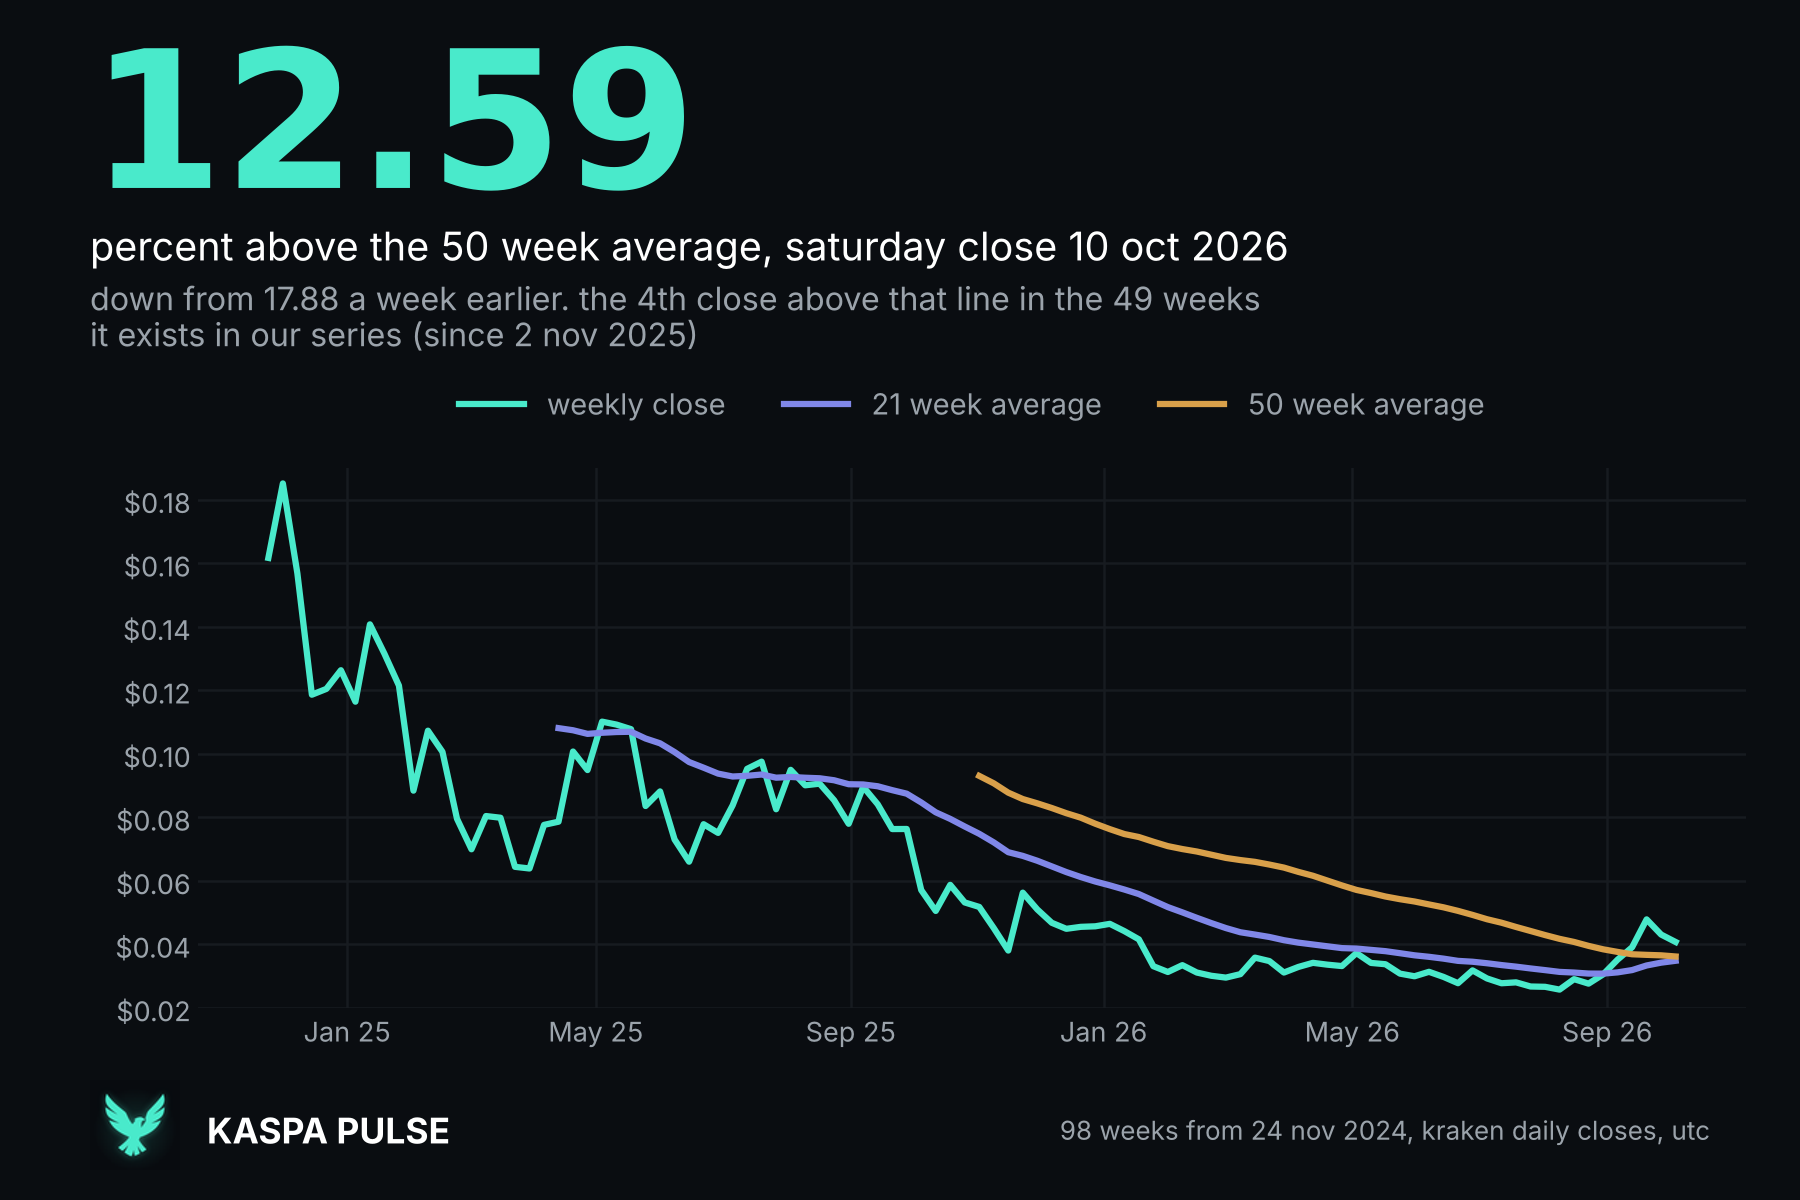
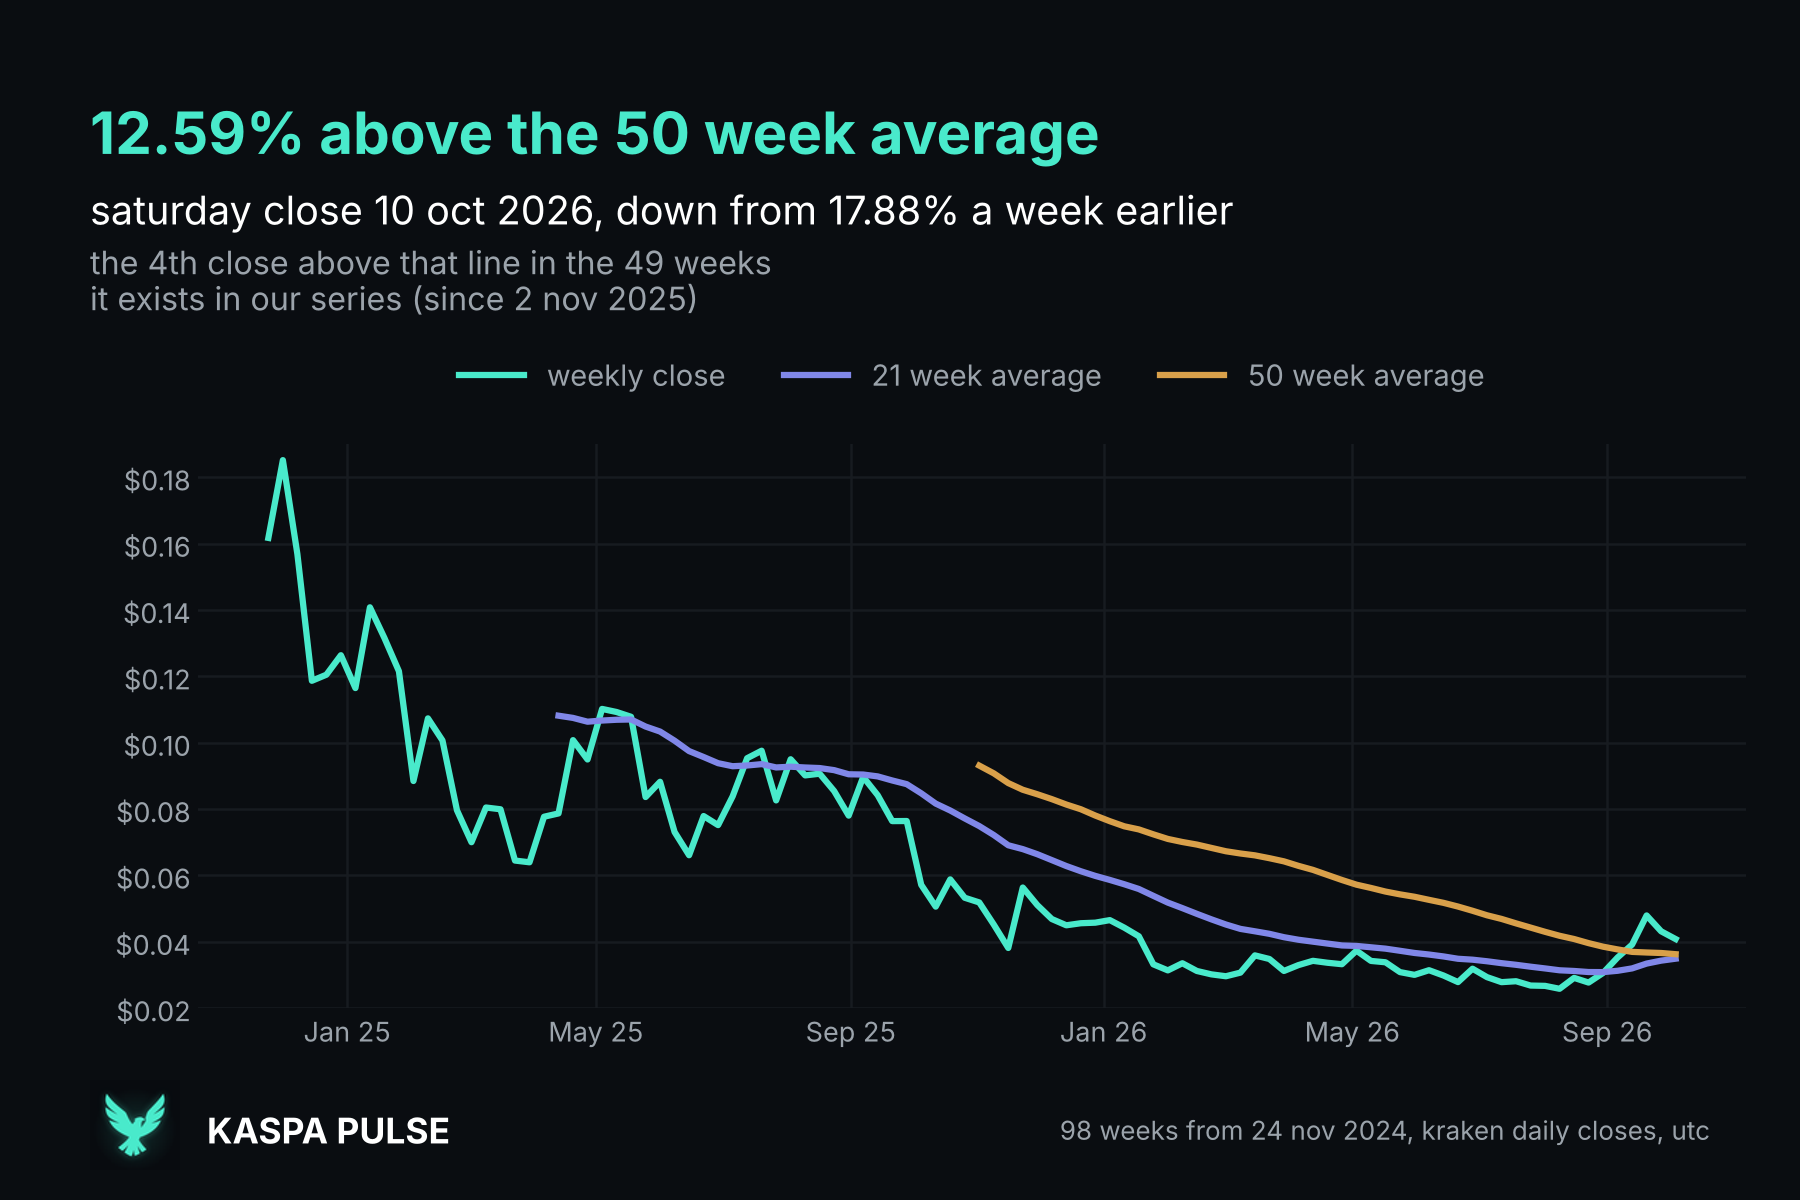
newsletter 14: kanal-buttons, tonregel, prozentzeichen, grafik ohne zweite grosszahl
Claude-Session: https://claude.ai/code/session_01TFFbjeErefK2o8AqjudW4C

diff --git a/newsletter/2026-10-12.html b/newsletter/2026-10-12.html
@@ -20,6 +20,11 @@
   Unterlagen. Ben liefert ihn nach, dann Knopf "watch this week's episode"
   eintragen und neue Testmail.
 
+  Aenderungen 12.10. (Ben): Kanal-Buttons mit Kurzlinks (PR 84, bei Versand muss er auf main
+  sein), Tonregel (keine Saetze ueber das, was wir nicht tun), "%" statt "percent",
+  keine zweite Grosszahl in der Grafik. Wallet Alerts: "checked several times a day",
+  nicht "every minute" (Alarme laufen alle 10 bis 15 Minuten, "every minute" waere falsch).
+
   Ausgabennummer: scripts/newsletter_issue.py (letzte Ausgabe 13 plus eins).
   Wochengrafik: graphics/weekly-2026-10-12.png, 600x3 (1800x1200).
   UTM: utm_source=newsletter, utm_medium=mail, utm_campaign=weekly7.
@@ -31,7 +36,8 @@
 <head>
 <meta charset="utf-8">
 <meta name="viewport" content="width=device-width, initial-scale=1">
-<meta name="x-subject" content="12.59 percent above the 50 week line">
+<meta name="x-subject" content="12.59% above the 50 week line">
+<style>@media only screen and (max-width:480px){.kb{width:50% !important;}}</style>
 <title>Kaspa Pulse Weekly, issue 14</title>
 </head>
 <body style="margin:0; padding:0; background:#050608;">
@@ -50,8 +56,8 @@
   </td></tr>
 
   <tr><td style="padding:30px 28px 6px 28px; text-align:center;">
-    <div style="font-size:64px; line-height:64px; color:#49EACB; font-weight:700;">12.59</div>
-    <div style="font-size:13px; letter-spacing:1px; color:#9BA3AB; text-transform:uppercase; padding-top:10px;">percent above kaspa's 50 week average on saturday 10 october, the 4th close above it in the 49 weeks the line has existed in our series (since 2 november 2025)</div>
+    <div style="font-size:64px; line-height:64px; color:#49EACB; font-weight:700;">12.59%</div>
+    <div style="font-size:13px; letter-spacing:1px; color:#9BA3AB; text-transform:uppercase; padding-top:10px;">above kaspa's 50 week average on saturday 10 october, the 4th close above it in the 49 weeks the line has existed in our series (since 2 november 2025)</div>
   </td></tr>
 
   <tr><td style="padding:18px 28px 4px 28px;">
@@ -67,7 +73,7 @@
       </tr>
       <tr>
         <td style="padding:9px 0; border-bottom:1px solid #1A1D21; color:#9BA3AB;">week against saturday 3 oct</td>
-        <td style="padding:9px 0; border-bottom:1px solid #1A1D21; text-align:right; color:#49EACB;">down 5.43 percent, 14.86 percent below saturday 26 sep</td>
+        <td style="padding:9px 0; border-bottom:1px solid #1A1D21; text-align:right; color:#49EACB;">down 5.43%, 14.86% below saturday 26 sep</td>
       </tr>
       <tr>
         <td style="padding:9px 0; border-bottom:1px solid #1A1D21; color:#9BA3AB;">50 week average, 10 oct</td>
@@ -75,7 +81,7 @@
       </tr>
       <tr>
         <td style="padding:9px 0; border-bottom:1px solid #1A1D21; color:#9BA3AB;">close against the 50 week line</td>
-        <td style="padding:9px 0; border-bottom:1px solid #1A1D21; text-align:right; color:#49EACB;">12.59 percent above, down from 17.88 percent a week earlier</td>
+        <td style="padding:9px 0; border-bottom:1px solid #1A1D21; text-align:right; color:#49EACB;">12.59% above, down from 17.88% a week earlier</td>
       </tr>
       <tr>
         <td style="padding:9px 0; border-bottom:1px solid #1A1D21; color:#9BA3AB;">21 week average, 10 oct</td>
@@ -83,11 +89,11 @@
       </tr>
       <tr>
         <td style="padding:9px 0; border-bottom:1px solid #1A1D21; color:#9BA3AB;">close against the 21 week line</td>
-        <td style="padding:9px 0; border-bottom:1px solid #1A1D21; text-align:right; color:#49EACB;">16.97 percent above, down from 25.81 percent a week earlier</td>
+        <td style="padding:9px 0; border-bottom:1px solid #1A1D21; text-align:right; color:#49EACB;">16.97% above, down from 25.81% a week earlier</td>
       </tr>
       <tr>
         <td style="padding:9px 0; border-bottom:1px solid #1A1D21; color:#9BA3AB;">weekly volume, 4 oct to 10 oct</td>
-        <td style="padding:9px 0; border-bottom:1px solid #1A1D21; text-align:right;">6.80M units, 33.18 percent below the week before</td>
+        <td style="padding:9px 0; border-bottom:1px solid #1A1D21; text-align:right;">6.80M units, 33.18% below the week before</td>
       </tr>
       <tr>
         <td style="padding:9px 0; color:#9BA3AB;">one kas in satoshis, 10 oct</td>
@@ -99,15 +105,14 @@
   <tr><td style="padding:22px 28px 4px 28px;">
     <div style="font-size:11px; letter-spacing:2px; color:#49EACB; text-transform:uppercase;">the take</div>
     <div style="font-size:15px; line-height:24px; color:#9BA3AB; padding-top:10px;">
-      kaspa closed the week 5.43 percent lower, saturday 3 october to saturday 10 october, after 9.98 percent lower
-      a week earlier, so 14.86 percent down across the 2 weeks. the weekly move is the 37th weakest of the 97 in our
-      series, which starts on 19 november 2024. it still closed 12.59 percent above the 50 week average. our series
+      kaspa closed the week 5.43% lower, saturday 3 october to saturday 10 october, after 9.98% lower
+      a week earlier, so 14.86% down across the 2 weeks. the weekly move is the 37th weakest of the 97 in our
+      series, which starts on 19 november 2024. it still closed 12.59% above the 50 week average. our series
       carries that line for 49 weeks, the first 45 closed below it, and the last 4 closed above it, in a row. a week
-      earlier the gap was 17.88 percent, so it lost 29.6 percent of its width and stayed positive. the close sits
-      16.97 percent above the 21 week average, which it has closed above in 11 of 78 weeks. hashrate read 362.36 PH/s
+      earlier the gap was 17.88%, so it lost 29.6% of its width and stayed positive. the close sits
+      16.97% above the 21 week average, which it has closed above in 11 of 78 weeks. hashrate read 362.36 PH/s
       on saturday 10 october, the highest of the 56 days in our own log, which starts on 13 august 2026, and averaged
-      339.06 PH/s from 4 to 10 october, against 343.92 from 27 september to 3 october. every claim here is measured
-      inside our window, not against kaspa's history since 2022.
+      339.06 PH/s from 4 to 10 october, against 343.92 from 27 september to 3 october.
     </div>
   </td></tr>
 
@@ -116,7 +121,7 @@
     <table role="presentation" width="100%" cellpadding="0" cellspacing="0" border="0" style="font-size:14px; color:#FFFFFF; margin-top:10px;">
       <tr>
         <td style="padding:9px 0; border-bottom:1px solid #1A1D21; color:#9BA3AB;">block reward, since the monthly step of monday 5 oct</td>
-        <td style="padding:9px 0; border-bottom:1px solid #1A1D21; text-align:right;">2.0602 kas, 5.61 percent below the 2.1827 before; daily emission 1,779,989 kas</td>
+        <td style="padding:9px 0; border-bottom:1px solid #1A1D21; text-align:right;">2.0602 kas, 5.61% below the 2.1827 before; daily emission 1,779,989 kas</td>
       </tr>
       <tr>
         <td style="padding:9px 0; border-bottom:1px solid #1A1D21; color:#9BA3AB;">next cut</td>
@@ -124,7 +129,7 @@
       </tr>
       <tr>
         <td style="padding:9px 0; border-bottom:1px solid #1A1D21; color:#9BA3AB;">threshold to hold both lines next week</td>
-        <td style="padding:9px 0; border-bottom:1px solid #1A1D21; text-align:right;">a close above $0.035874, 12.03 percent below this close</td>
+        <td style="padding:9px 0; border-bottom:1px solid #1A1D21; text-align:right;">a close above $0.035874, 12.03% below this close</td>
       </tr>
       <tr>
         <td style="padding:9px 0; color:#9BA3AB;">largest known wallet, 4 oct 18:05 to 10 oct 18:29 utc</td>
@@ -143,9 +148,8 @@
       come from our own chain reader against kaspa's fixed anchor and monthly step; for the next cut we print
       the date only, because the step lands on a block score and not on a clock, so the minute moves. hashrate is our own daily
       reading, averaged over seven days per window. the fee share is our own count across 1 to 25 september 2026,
-      0.1338 percent of miner revenue, fees and reward over the same 25 days; that count is 17 days old today and
-      there is no fee reading for last week. the wallet figures are daily balances on the dates given, two
-      endpoints, no transaction list.
+      0.1338% of miner revenue, fees and reward over the same 25 days; that count is 17 days old today. the wallet figures are daily balances on the dates given, two
+      daily readings.
     </div>
   </td></tr>
 
@@ -167,7 +171,7 @@
       <tr><td style="padding:18px 20px;">
         <div style="font-size:11px; letter-spacing:2px; color:#49EACB; text-transform:uppercase;">wallet alerts</div>
         <div style="font-size:13px; line-height:21px; color:#9BA3AB; padding-top:10px;">
-          reward cuts and the chain's largest wallet moving get checked several times a day, not once a week, and posted when a check finds one.
+          reward cuts and the chain's largest wallet moving get checked several times a day and posted when a check finds one.
           join <a href="https://discord.gg/h33JBhrPP7" style="color:#49EACB; text-decoration:none;">discord.gg/h33JBhrPP7</a>
           or <a href="https://t.me/kaspapulse" style="color:#49EACB; text-decoration:none;">t.me/kaspapulse</a>.
         </div>
@@ -185,6 +189,18 @@
     </div>
     <div style="font-size:15px; line-height:24px; color:#FFFFFF; font-weight:700; padding-top:16px;">week 50, above or below the 50 week line? hit reply with your call.</div>
     <div style="font-size:11px; line-height:18px; color:#7A828C; padding-top:12px;">not financial advice.</div>
+  </td></tr>
+
+  <tr><td style="padding:22px 28px 4px 28px;">
+    <div style="font-size:13px; line-height:21px; color:#FFFFFF; font-weight:700; padding-bottom:8px;">follow the numbers where you are</div>
+    <div style="font-size:0; line-height:0; margin:0 -4px;">
+      <div class="kb" style="display:inline-block; width:33.33%; box-sizing:border-box; padding:4px; vertical-align:top;"><a href="https://kaspapulse.com/yt" style="display:block; background:#0F1319; border:1px solid #1A1D21; border-radius:8px; color:#49EACB; font-size:13px; font-weight:700; line-height:18px; text-decoration:none; text-align:center; padding:12px 4px;">YouTube</a></div>
+      <div class="kb" style="display:inline-block; width:33.33%; box-sizing:border-box; padding:4px; vertical-align:top;"><a href="https://kaspapulse.com/x" style="display:block; background:#0F1319; border:1px solid #1A1D21; border-radius:8px; color:#49EACB; font-size:13px; font-weight:700; line-height:18px; text-decoration:none; text-align:center; padding:12px 4px;">X</a></div>
+      <div class="kb" style="display:inline-block; width:33.33%; box-sizing:border-box; padding:4px; vertical-align:top;"><a href="https://kaspapulse.com/ig" style="display:block; background:#0F1319; border:1px solid #1A1D21; border-radius:8px; color:#49EACB; font-size:13px; font-weight:700; line-height:18px; text-decoration:none; text-align:center; padding:12px 4px;">Instagram</a></div>
+      <div class="kb" style="display:inline-block; width:33.33%; box-sizing:border-box; padding:4px; vertical-align:top;"><a href="https://kaspapulse.com/threads" style="display:block; background:#0F1319; border:1px solid #1A1D21; border-radius:8px; color:#49EACB; font-size:13px; font-weight:700; line-height:18px; text-decoration:none; text-align:center; padding:12px 4px;">Threads</a></div>
+      <div class="kb" style="display:inline-block; width:33.33%; box-sizing:border-box; padding:4px; vertical-align:top;"><a href="https://kaspapulse.com/discord" style="display:block; background:#0F1319; border:1px solid #1A1D21; border-radius:8px; color:#49EACB; font-size:13px; font-weight:700; line-height:18px; text-decoration:none; text-align:center; padding:12px 4px;">Discord</a></div>
+      <div class="kb" style="display:inline-block; width:33.33%; box-sizing:border-box; padding:4px; vertical-align:top;"><a href="https://t.me/kaspapulse" style="display:block; background:#0F1319; border:1px solid #1A1D21; border-radius:8px; color:#49EACB; font-size:13px; font-weight:700; line-height:18px; text-decoration:none; text-align:center; padding:12px 4px;">Telegram</a></div>
+    </div>
   </td></tr>
 
   <tr><td style="padding:22px 28px 26px 28px; border-top:1px solid #1A1D21; margin-top:20px;">
